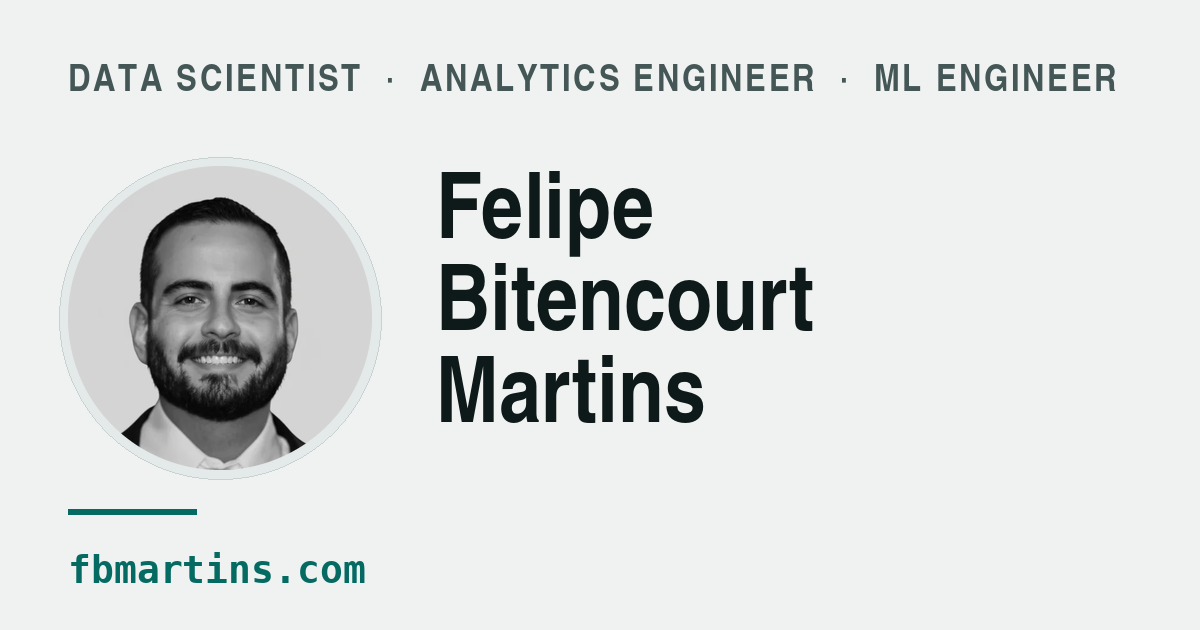
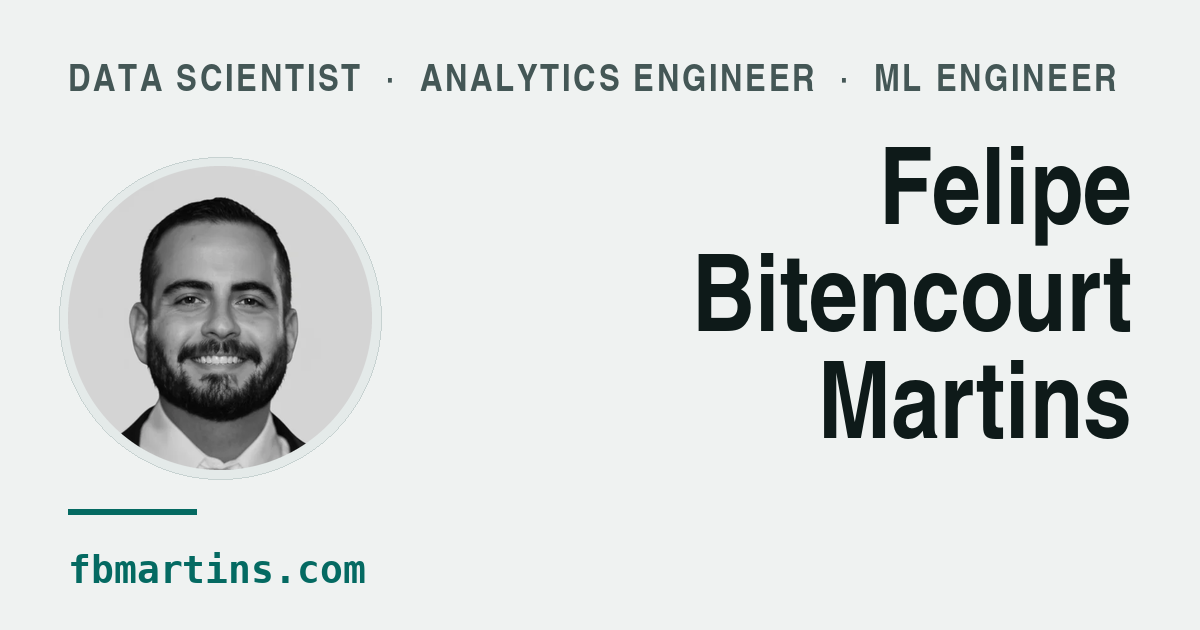
Rework link preview card

Changed region(s): [[0.37, 0.2714, 0.9558, 0.6937], [0.6783, 0.573, 0.9558, 0.6937], [0.74, 0.2111, 0.9558, 0.3921]]

diff --git a/index.html b/index.html
@@ -19,13 +19,13 @@
 <meta property="og:title" content="Felipe Martins Interview Deck">
 <meta property="og:description" content="Felipe Bitencourt Martins - transforming data into actionable insights through advanced analytics, machine learning, and AI solutions.">
 <meta property="og:url" content="https://fbmartins.com/">
-<meta property="og:image" content="https://fbmartins.com/og.png?v=2">
+<meta property="og:image" content="https://fbmartins.com/og.png?v=3">
 <meta property="og:image:width" content="1200">
 <meta property="og:image:height" content="630">
 <meta name="twitter:card" content="summary_large_image">
 <meta name="twitter:title" content="Felipe Martins Interview Deck">
 <meta name="twitter:description" content="Felipe Bitencourt Martins - transforming data into actionable insights through advanced analytics, machine learning, and AI solutions.">
-<meta name="twitter:image" content="https://fbmartins.com/og.png?v=2">
+<meta name="twitter:image" content="https://fbmartins.com/og.png?v=3">
 <!-- placeholder content is still present; DELETE this line before search engines
      should index the deployed page. -->
 <meta name="robots" content="noindex">
